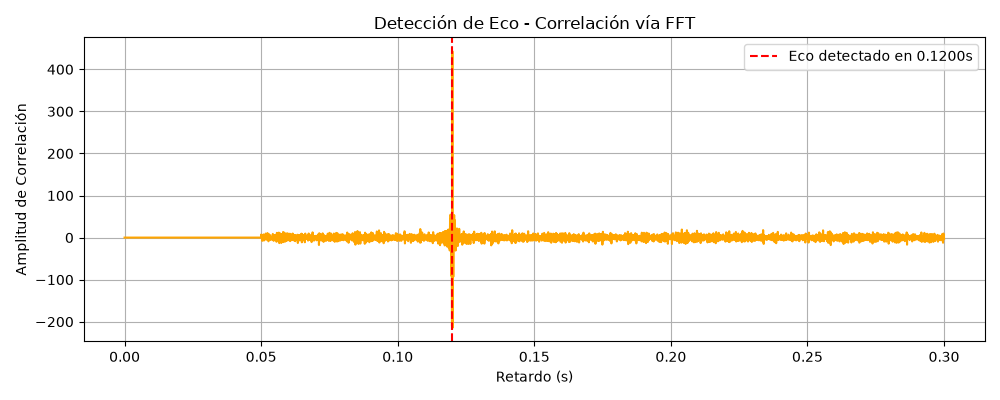
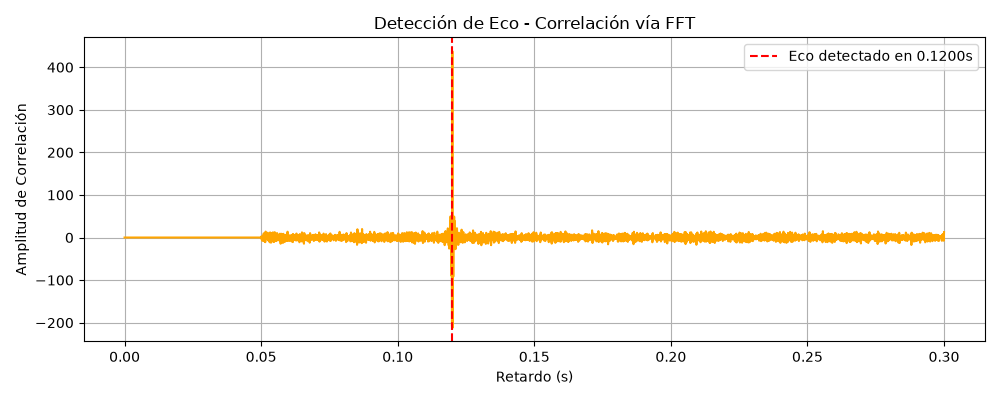
Fix: Agregar correlación fft

diff --git a/proyecto_1/deteccion_ecos/src/correlacion_fft.py b/proyecto_1/deteccion_ecos/src/correlacion_fft.py
@@ -2,43 +2,42 @@ import numpy as np
 import matplotlib.pyplot as plt
 import time
 
-# Cargar señales
-datos = np.load("proyecto_1/deteccion_ecos/src/datos_ecos.npz")
-tx, rx, fs = datos["tx"], datos["rx"], datos["fs"]
 
-inicio = time.time()
+datos = np.load("proyecto_1/deteccion_ecos/src/datos_ecos.npz")  #Carga el archivo comprimido guardado .npz
+tx = datos["tx"]  #De los datos conseguimos el pulso
+rx = datos["rx"]  #De los datos conseguimos el ruido + eco
+fs = datos["fs"]  #De los datos conseguimos la frecuencuia de muestreo 44100 Hz
 
-# Zero-padding: Para evitar alias por convolución circular, N >= len(rx) + len(tx) - 1
-N = len(rx) + len(tx) - 1
-# Optimización: Ajustar a la siguiente potencia de 2 mejora la velocidad de la FFT
-N_fft = 2**int(np.ceil(np.log2(N)))
+inicio = time.time()  #Tomamos como referencia el inicio previo al calculo
 
-# Transformada al dominio de la frecuencia
-TX_fft = np.fft.fft(tx, N_fft)
-RX_fft = np.fft.fft(rx, N_fft)
+N = len(rx) + len(tx) - 1 #Para evitar distorsiones al usar convolución/correlación circular, N debe ser la suma las dos señales menos 1
 
-# Correlación vía multiplicación en frecuencia: R_xy = IFFT(RX * conj(TX))
-corr_freq = RX_fft * np.conj(TX_fft)
-corr_fft_full = np.fft.ifft(corr_freq)
+N_fft = 2**int(np.ceil(np.log2(N))) #Se redondea N hacia la potencia de 2 más cercana, para que FFT puede trabajar de la forma más rápida
 
-# Tomar la parte real y recortar al tamaño válido equivalente a la correlación en tiempo
-corr_fft = np.real(corr_fft_full)[:len(rx) - len(tx) + 1]
+TX_fft = np.fft.fft(tx, N_fft)  #Convierte el pulso al dominio de la frecuencia
+RX_fft = np.fft.fft(rx, N_fft)  #Convierte la señal al dominio de la frecuencia
 
-fin = time.time()
+#Correlación en tiempo = Multiplicación en frecuencia por el complejo conjugado: R_xy = IFFT( RX * conj(TX) )
+corr_freq = RX_fft * np.conj(TX_fft)  #Multiplica el espectro de RX por el conjugado espectral de TX
+corr_fft_full = np.fft.ifft(corr_freq)  #Aplica la transformada inversa (IFFT) para volver al dominio del tiempo
 
-tiempo_ejecucion = fin - inicio
-# Ignorar el tiempo que dura la señal directa original para no detectarla como eco
-muestras_zona_muerta = len(tx) 
-corr_fft[:muestras_zona_muerta] = 0
-muestras_retardo_estimado = np.argmax(corr_fft)
-retardo_estimado = muestras_retardo_estimado / fs
+corr_fft = np.real(corr_fft_full)[:len(rx) - len(tx) + 1] #Agarramos solo lo real lo imaginario lo despreciamos, y recortamos al tamaño establecido
+
+fin = time.time()  #Guarda la hora exacta al finalizar
+tiempo_ejecucion = fin - inicio #Resta los tiempos para saber cuánto tardó en segundos
+
+muestras_zona_muerta = len(tx)  #Longitud del pulso directo inicial
+corr_fft[:muestras_zona_muerta] = 0  #Elimina el pico de la señal directa
+
+muestras_retardo_estimado = np.argmax(corr_fft)  #Encuentra el índice donde la correlación dio el valor más alto
+retardo_estimado = muestras_retardo_estimado / fs  #Convierte el índice de muestra a segundos dividiendo por fs
 
 print("--- Correlación vía FFT ---")
-print(f"Retardo estimado: {retardo_estimado:.4f} s")
-print(f"Tiempo de ejecución: {tiempo_ejecucion:.6f} s")
+print(f"Retardo estimado: {retardo_estimado:.6f} s")  
+print(f"Tiempo de ejecución: {tiempo_ejecucion:.6f} s") 
 
-# Graficar
-t_corr = np.arange(len(corr_fft)) / fs
+
+t_corr = np.arange(len(corr_fft)) / fs  # Tiempo en segundos para el eje X
 plt.figure(figsize=(10, 4))
 plt.plot(t_corr, corr_fft, color="orange")
 plt.axvline(x=retardo_estimado, color="r", linestyle="--", label=f"Eco detectado en {retardo_estimado:.4f}s")
